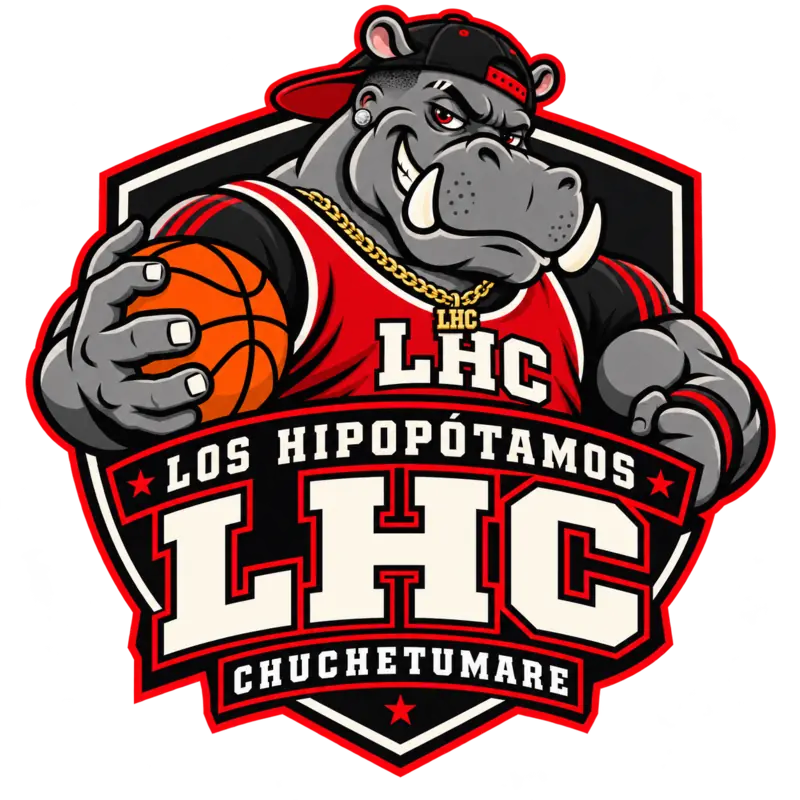
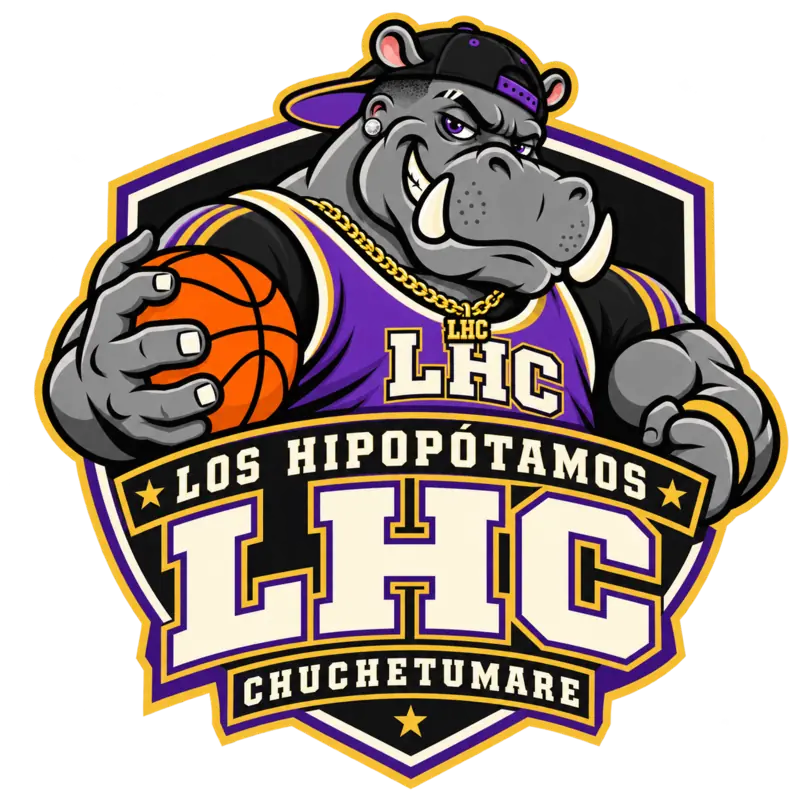
Nuevo escudo de Los Hipopotamos Chuchetumare: morado y dorado
- Escudo nuevo en assets/los-hipopotamos-chuchetumare.webp (con versión en la URL para evitar caché)
- Colores del equipo pasan de rojo a morado (#7b3fd1) y dorado (#f2ba33)
- Se aplican en tarjetas, hero, marcadores por categoría, tabla, página del equipo y halo del escudo
- Imagen para compartir regenerada con el escudo nuevo

diff --git a/js/data.js b/js/data.js
@@ -1612,7 +1612,7 @@ teams: [
     strength: 'Jokić ofrece un eje para proyectar REB y AST sin depender exclusivamente de los bases. Brunson, Edwards y Brown aportan alternativas en PTS y 3PM. Banchero y Jalen Johnson suman creación desde el frente de ataque.',
     challenge: 'La construcción parece más cómoda en ataque que en BLK. Debe comprobar su respuesta en STL y vigilar TO al reunir varios generadores. FG% y FT% dependerán del volumen y las alineaciones.' },
   { id: 'hipopotamos', name: 'Los Hipopotamos Chuchetumare', short: 'LHC', city: 'Santiago', owner: 'Cristóbal Uribe', ownerNote: '',
-    initials: 'LHC', colors: ['#d1261f', '#9a958a'], logo: './assets/los-hipopotamos-chuchetumare.webp',
+    initials: 'LHC', colors: ['#7b3fd1', '#f2ba33'], logo: './assets/los-hipopotamos-chuchetumare.webp?v=2',
     leaders: ['Victor Wembanyama', 'Cade Cunningham', 'Derrick White'],
     roster: ['Cade Cunningham', 'Derrick White', 'Deni Avdija', 'Naz Reid', 'Victor Wembanyama', 'VJ Edgecombe', 'Jaden McDaniels', 'Josh Giddey', 'Cason Wallace', 'Bennett Stirtz', 'Onyeka Okongwu', 'Toumani Camara', 'P.J. Washington'],
     strength: 'Wembanyama es el eje del planteamiento en BLK y REB. Cunningham y Giddey permiten proyectar una disputa en AST. White, McDaniels y Wallace ofrecen alternativas para orientar las alineaciones hacia la defensa y STL.',

diff --git a/index.html b/index.html
@@ -24,7 +24,7 @@
 <meta name="format-detection" content="telephone=no">
 <link rel="preload" href="./assets/fonts/barlow-condensed-latin-800-normal.woff2" as="font" type="font/woff2" crossorigin>
 <link rel="preload" href="./assets/fonts/barlow-latin-400-normal.woff2" as="font" type="font/woff2" crossorigin>
-<link rel="stylesheet" href="./css/styles.css?v=2026102301">
+<link rel="stylesheet" href="./css/styles.css?v=2026102302">
 </head>
 <body>
 <a class="skip" href="#contenido">Saltar al contenido</a>
@@ -65,7 +65,7 @@
   </div>
 </footer>
 
-<script src="./js/data.js?v=2026102301"></script>
-<script src="./js/app.js?v=2026102301"></script>
+<script src="./js/data.js?v=2026102302"></script>
+<script src="./js/app.js?v=2026102302"></script>
 </body>
 </html>
